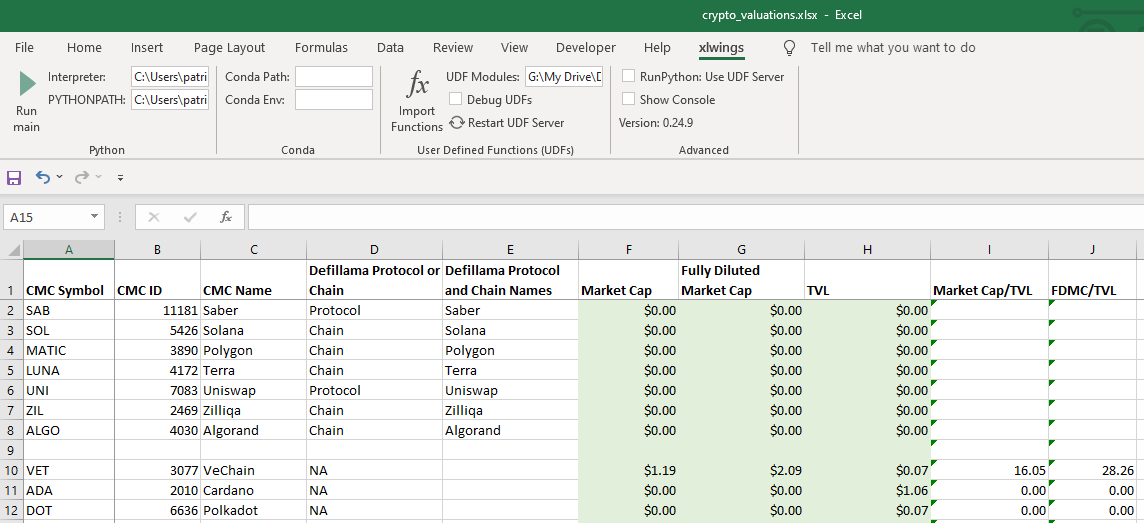
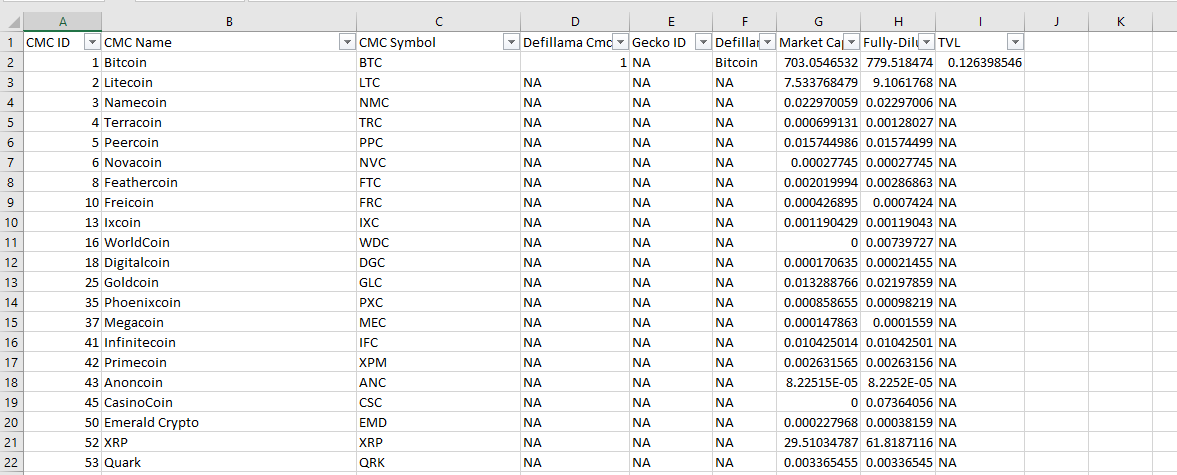
Updates the README.md and configs.py
Updated the README.md to remove out-of-date reference to V1.0
artifacts and updated configs.py to remove settings that are
no longer needed as of V1.1 such as DATA_FILE_PATH and DEV_MODE.

diff --git a/source-files/configs.py b/source-files/configs.py
@@ -1,7 +1,5 @@
 def init():
-    global DEV_MODE, DATA_FILE_PATH, UNIT, ID_REQUEST_LENGTH, CMC_IDS_COUNT
-    DEV_MODE = 'OFF'
-    DATA_FILE_PATH = r'C:\Users\patri\Downloads\crypto-values-master\data-files'
+    global UNIT, ID_REQUEST_LENGTH, CMC_IDS_COUNT
     UNIT = 1000000000  # billion
     ID_REQUEST_LENGTH = 800 # How many cmc_ids to aggregate for calling Coinmarketcap's quotes/latest endupoint.
     CMC_IDS_COUNT = 10000 # This is the number of coin listed on Coinmarketcap as of Jan 2022.

diff --git a/README.md b/README.md
@@ -28,7 +28,7 @@ evaluate.
 2) crypto_valuations.py: This is the script that the xlwings plugin's Run main button will call. 
 3) coinmarketcap.py: This script calls the Coinmarketcap API to get the market capitalization and fully-diluted market 
 capitalization and updates the MC and FDMC for all Coinmarketcap listings.  
-4) configs.py: This script contains the configurations for DEV_MODE, DATA_FILE_PATH, and UNIT.
+4) configs.py: This script contains the configurations.
 5) main.py: This file is for running the Python code without Excel for development and debugging.
 6) keys.py: This script contains the API keys. For now, it is just the CMC_API_KEY. Note that this file is not checked
 into the repository. The user will have to rename keys_sample.py to keys.py and place his own CMC API key.
@@ -118,15 +118,12 @@ xlwings menu is in Excel, click on the xlwings menu. The user should see two var
 Ex: C:\Users\patri\Downloads\crypto_valuations_public-master\crypto_valuations_public-master\source-files.
    ![image info](readme-files/xlwings_plugin_configuration.png)
 
-7) Configure the configs.py.
-   1) Open the configs.py in an editor (ex: PyCharm or Notepad). 
-   2) Type DATA_FILE_PATH = 'The path where you have downloaded and unzipped the Github files.'
-Ex: DATA_FILE_PATH = 'C:\Users\patri\Downloads\crypto_valuations_public-master\data-files.'
-   3) The configs.py file should appear similar to below.
-   ![image info](readme-files/windows_pycharm_configs_py.png)
-   4) New for version 1.1 is the ability to update the reference data by configuring UPDATE_REFERENCE_DATA = 'ON'. 
+7) Configs.py: As of V1.1, the configs CMC_IDS_COUNT and ID_REQUEST_LENGTH and have been added. The first 
+configs equals how many CMC listings there are, and the second controls how many of these listings are 
+aggregated together in single request to quotes/latest. Note that this is needed because trying to request
+greater than ~800 IDs at once results in a 414 response and an error message that the URL is too long.
 
-8) Configure the keys.py file 
+9) Configure the keys.py file 
    1) First, rename the supplied keys_sample.py to keys.py.  
    2) Then go to https://coinmarketcap.com/api/ and follow the steps to create a free account.
    ![image info](readme-files/cmc_get_api_key.png)
@@ -136,32 +133,11 @@ Ex: DATA_FILE_PATH = 'C:\Users\patri\Downloads\crypto_valuations_public-master\d
    ![image info](readme-files/cmc_copy_api_key.png)
    
 
-### A Note on the data-files Folder
-In configs.py, ensure DEV_MODE = 'OFF' and configure DATA_FILE_PATH to where you plan to store the files even if you 
-leave DEV_MODE = 'OFF'. Note that DEV_MODE is used only for Defillama because of two reasons: 1) The 
-Defillama endpoint returns all historical data, so each json is sizable, and 2) the Defillama endpoint does not support
-aggregation, so each protocol or chain's historical data can be easily saved as a separate file, making the saving
-and checking for saved files much easier. The Coinmarketcap API supports both aggregation and current data query, so 
-having DEV_MODE support is not as critical.
-
 ## Usage
 Assuming all of the installation and configuration steps were completed, then click on the Run main button of 
-the xlwings plugin. The Run main button will run the Python script crypto_valuations.py. I recommend that you zero (not
-delete the values) in the Market Cap, Fully-Diluted Market Cap, and TVL cells to make it easier to see that the Python
-scripts have indeed fetched new values. Note that I stated zero instead of delete because xwlwings uses blank cells to 
-delimit the range of value it grabs from Excel. 
+the xlwings plugin. The Run main button will run the Python script crypto_valuations.py. All the Coinmarketcap and
+Defillama listings and their market cap, fully-diluted market, and TVL will be updated in the cmc_ids tabs.
 
-Correct: 
-
-![image info](readme-files/excel_explanation.png)
-
-Incorrect: 
-
-![image info](readme-files/excel_incorrect.png)
-
-Because xlwings uses blank cells to delimit the range of data it grabs from Excel, the above example instructed xlwings 
-to only update SAB and SOL because the blank row 4 served as a delimiter. If the user wants to update the values for 
-additional chains or protocols, the user can remove the blank row in row 4. 
 
 ![image info](readme-files/excel_explanation_additional.png)
 
@@ -169,32 +145,21 @@ additional chains or protocols, the user can remove the blank row in row 4.
 Do not change the name of the Excel unless you also rename the Python script crypto_valuations.py because the xlwings 
 plugin's Run main button looks for a Python script with the same name as the invoking Excel. 
 
-Do not change the order of the Excel because the Python scripts assume the location and format of the Excel data, for 
-example that the data start in cell A2 and that the CMC ID is column B. An 
-explanation of all the columns: 
-1) CMC Symbol: This is the Coinmarketcap symbol of the cryptocurrency.
-2) CMC ID: This is the Coinmarketcap unique ID of the cryptocurrency. 
-3) CMC Name: This is the corresponding non-unique name of the CMC ID. The Excel has vlookup to search this value by ID. 
-4) Defillama Protocol or Chain: Defillama has a protocol API endpoint for all protocols (apps, dexes, and lending built 
-on the chains) and a separate endpoint for the chains. This column tells the Python code which endpoint to use. 
-5) Defillama Protocol and Chain Names: It is unfortunate that there is no unified naming for all chains and protocols. 
-Ex: coinmarketcap calls LUNA terra-luna, but Defillama calls the same Terra, so the same chain must be named twice. 
-The name is qualified by the dictionary of allowed names queried by the related project defillama_and_cmc_slugs. 
-The user should use defillama_and_cmc_slugs to update the protocol and chain names from time to time.
-6) Market Cap: This is the market capitalization of the available number of tokens multiplied by the current price in 
-billions of USD. See coinmarketcap.com's definition.
-7) Fully-Diluted Market Cap: This is the market capitalization including those yet-to-be-released tokens times the 
+1) CMC ID: This is the Coinmarketcap unique ID of the cryptocurrency. 
+2) CMC Name: This is the corresponding non-unique name of the CMC ID. 
+3) CMC Symbol: This is the corresponding non-unique symbol of the CMC ID.  
+4) Defillama CMCId: This is the CMC ID listed on Defillama. This ID can be used to join the data between Coinmarketcap
+and Defillma. 
+5) Gecko ID: This is the Coingecko ID listed on Defillama. For now, it is included but not used. For the future, this
+6) Defillama Slug: This is the unique slug (for procotols) and name (for chains) of a Defillama listing. For now, it is
+included but not used. 
+ID could be used for join Defillma data with Coingecko data. 
+7) Market Cap: This is the market capitalization in billions of USD.
+8) Fully-Diluted Market Cap: This is the market capitalization including those yet-to-be-released tokens times the 
 current price in billions of USD. 
-8) TVL: This is the total value locked in billions of USD.
-9) Market Cap/TVL: This is the free-float market cap divided by the TVL. The Excel contains the formula, so do not
-overwrite. 
-10) FDMC/TVL: This is the fully-diluted market cap divided by TVL. It is the same indicator, except this indicator 
-includes all yet-to-be-released tokens.
+9) TVL: This is the total value locked in billions of USD.
 
-Note that the Excel has formulas and data validation only until row 105,954. The fact that CMC_IDs currently top out 
-around 15,000 should mean this row range will leave plenty of room for expansion without bogging down the Excel.
-
-![image info](readme-files/Extent_of_the_Formulas_and_Locking.png)
+The user can write formulas in columns 10 and 11 for MC/TVL and FDMC/TVL.  
 
 <a name="relateddocs"></a>
 ## Related Docs
@@ -210,7 +175,7 @@ around 15,000 should mean this row range will leave plenty of room for expansion
 4) PyCharm https://www.jetbrains.com/pycharm/guide/tips/quick-docs/
 
 ## Roadmap 
-Below are the planned versions. 
+Below are the planned versions. The roadmap has been updated as of V1.1.
 
 ### V1.0 
 #### Version 1.0 
@@ -219,13 +184,14 @@ Version 1.0's Python script requires that crypto_valuations.xlsx's format remain
 Excel.
 
 #### Version 1.1 
-V1.1 was repurposed that a) the previously separate projects for reference data are now part of the crypto_valuations 
-project and b) all listings on both Coinmarketcap and Defillama are now listed in crypto_valuations.xlsx. 
+V1.1 was repurposed so that a) the previously separate projects for reference data are now part of the crypto_valuations 
+project and b) all listings on both Coinmarketcap and Defillama are automatically updated in the cmc_ids tab. There is
+no longer a need for a separate watchlist and two sets of reference data.
 
 ### Version 1.2
-As noted in What's New in V1.1, there is a very small cross section between Coinmarketcap and Defillama listing, so that
-means the end goal of providing basic valuations for all listed coins is not yet achieved, so the next version will be
-to source more TVLs. 
+As noted in What's New in V1.1, there is a very small cross-section between Coinmarketcap and Defillama listings, so 
+that means the end goal of providing basic valuations for all listed coins is not yet achieved, so the next version 
+will be to source more TVLs. 
 
 #### Version 1.3
 V1.3 will add additional metrics such as protocol revenue if I can find sources that can be parsed or queried. 
